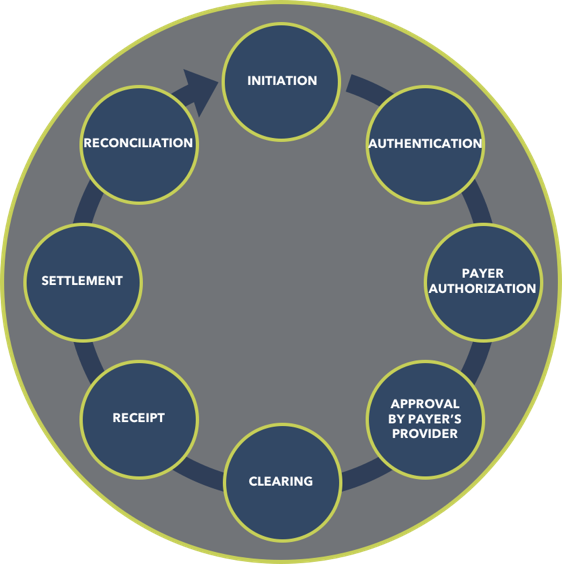
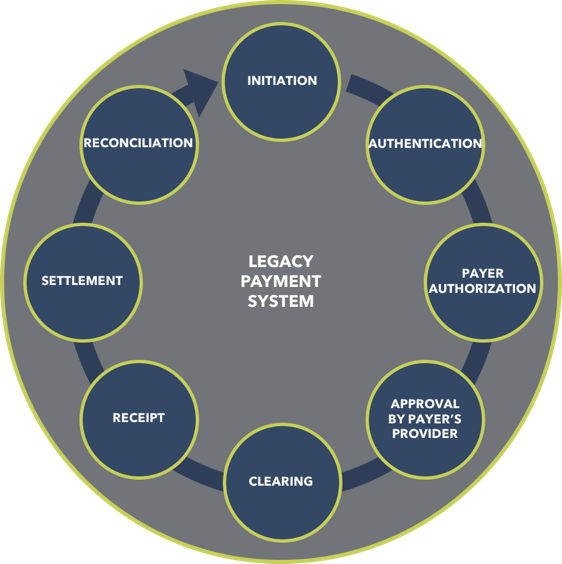
Improved the "How it works" graphics and some button labels.

Changed region(s): [[0.4235, 0.4521, 0.5747, 0.5426]]

diff --git a/public_html/index.html b/public_html/index.html
@@ -124,7 +124,7 @@
             style="margin-top: 50px; margin-bottom: 20px">
           <a href="https://drive.google.com/file/d/0B_CNPQWTRQwuZWhqbDUzNVJsNGc/view" target="_blank">
             <button class="action-button">
-              Download the PDF Now &gt;
+              Download the Full Proposal Now &gt;
             </button>
           </a>
         </div>
@@ -157,10 +157,10 @@
           <table width="100%">
             <tbody>
               <tr>
-                <td width="36%" style="vertical-align: bottom">
+                <td width="38%" style="vertical-align: bottom">
                   <img src="image/8-step-2x.png" style="width: 100%" />
                 </td>
-                <td width="18%" style="vertical-align: center; text-align: center; padding-top: 80px">
+                <td width="16%" style="vertical-align: center; text-align: center; padding-top: 80px">
                   <img src="image/right-arrow-2x.png" style="width: 50%" />
                 </td>
                 <td width="46%" style="vertical-align: center">
@@ -169,11 +169,13 @@
               </tr>
               <tr>
                 <td class="process-caption">
-                  Current 8-Step Payments Process
+                  The legacy payment system is constrained by an eight step
+                  process.
                 </td>
                 <td></td>
-                <td class="process-caption" style="padding-left: 70px">
-                  FPN 3-Step Payments Process
+                <td class="process-caption">
+                  The new FPN payment system simplifies the payment process
+                  down to 3 steps: authentication, payment order, and receipt.
                 </td>
               </tr>
             </tbody>
@@ -1178,7 +1180,7 @@
 
       <section class="centered">
         <div class="interjection">
-          <div>Review Our Final Assessment.</div>
+          <div>Review the FPN Final Assessment.</div>
         </div>
         <div class="action-button-container"
             style="margin-top: 50px; margin-bottom: 20px">

diff --git a/public_html/fpn.css b/public_html/fpn.css
@@ -249,6 +249,6 @@ section.centered {
   font-weight: 700;
   font-size: 14px;
   text-align: center;
-  padding: 16px 20px 0 20px;
+  padding-top: 16px;
   vertical-align: top;
 }
